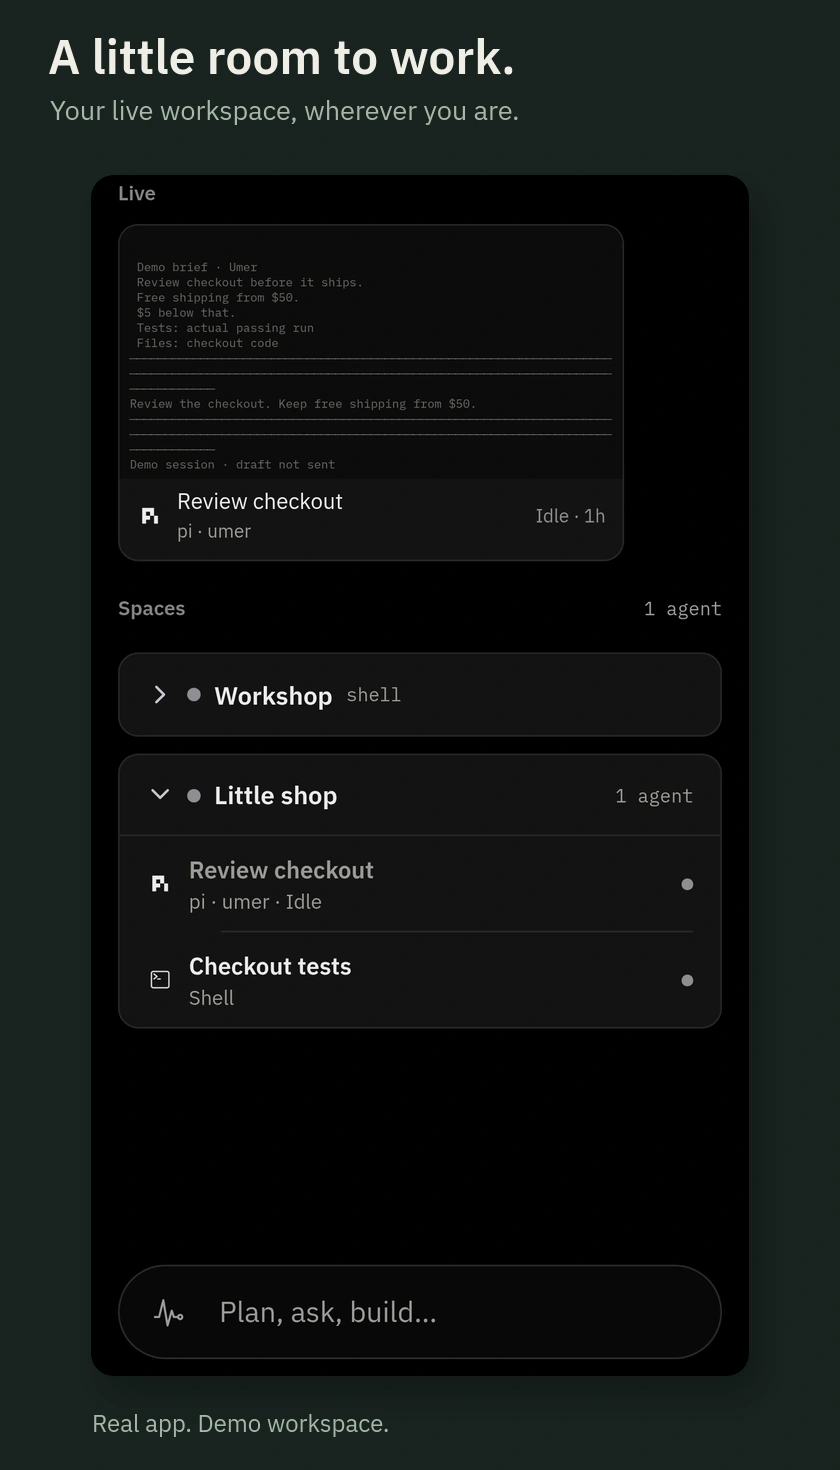
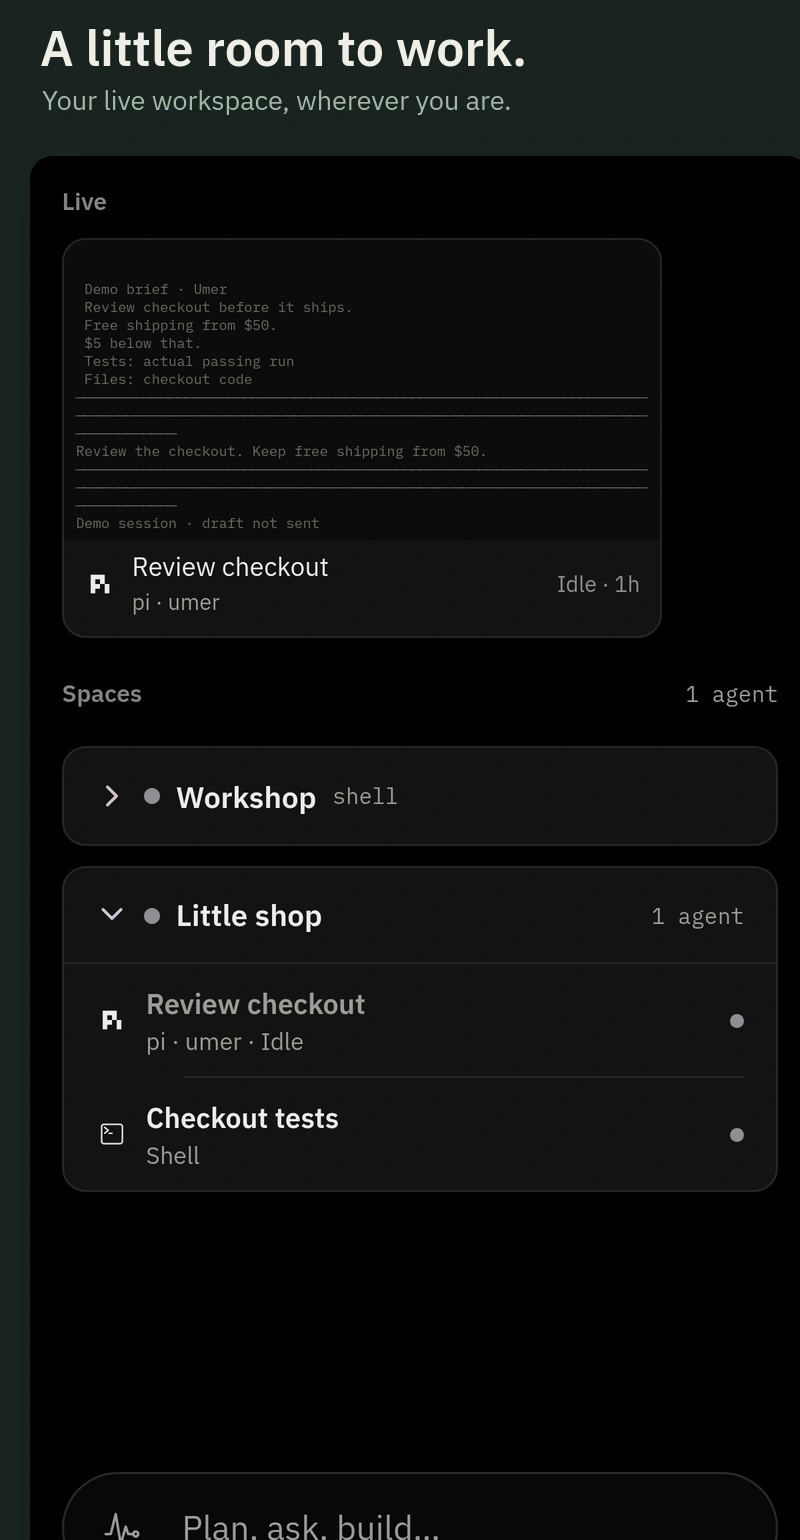
docs(readme): refresh terminal, pairing and hero captures
Browser terminal glyphs: the web font stack ended in generic monospace,
which on Linux carries none of the symbols a build tool prints (node's
info glyph, ticks, box drawing), so the browser fell through to a
colour-emoji font and the character arrived as a filled box. Each family
now ends with monochrome faces that carry those symbols, so the same
output renders as text.

Captures: recapture the terminal (hero and step 02) from a real run with
the fixed face, and the pairing card from the real two-word compare
screen instead of the empty paste form. Tighten and enlarge the hero
frames so the app text reads at phone width. Home, agent and files
frames are unchanged.

diff --git a/apps/mobile/sources/terminal/domain/fontSteps.ts b/apps/mobile/sources/terminal/domain/fontSteps.ts
@@ -17,9 +17,12 @@ export function nearestFontIndex(size: number): number {
 }
 
 /** Faces the browser terminal can draw. The phone's native terminal has its own
- *  built-in face, so this choice only reaches the web. */
+ *  built-in face, so this choice only reaches the web. Each family ends with
+ *  mono faces that carry the symbols a build tool prints (node's `ℹ`, ticks,
+ *  box drawing): without them the browser falls through to a colour-emoji font
+ *  and the character arrives as a filled box. */
 export const TERMINAL_FONTS = {
-    system: { name: 'System', family: 'Menlo, Monaco, "Courier New", monospace' },
-    plex: { name: 'IBM Plex Mono', family: 'IBMPlexMono-Regular, monospace' },
+    system: { name: 'System', family: 'Menlo, Monaco, "Courier New", "Noto Sans Mono", "DejaVu Sans Mono", monospace' },
+    plex: { name: 'IBM Plex Mono', family: 'IBMPlexMono-Regular, "Noto Sans Mono", "DejaVu Sans Mono", monospace' },
 } as const;
 export type TerminalFont = keyof typeof TERMINAL_FONTS;
